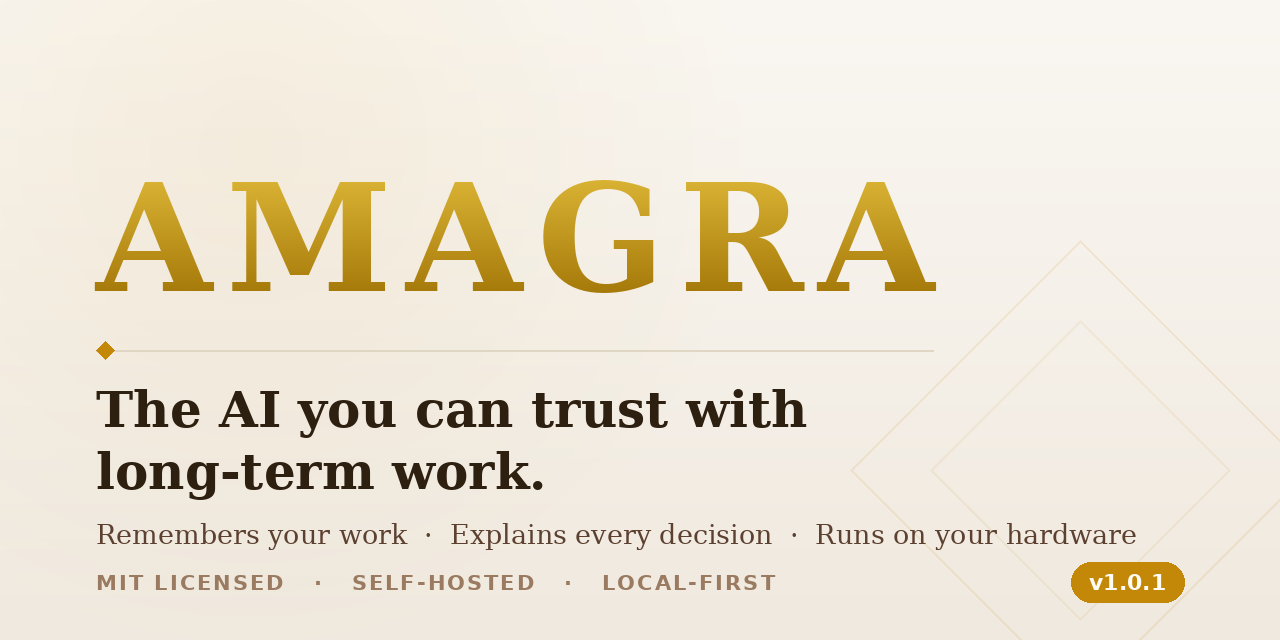
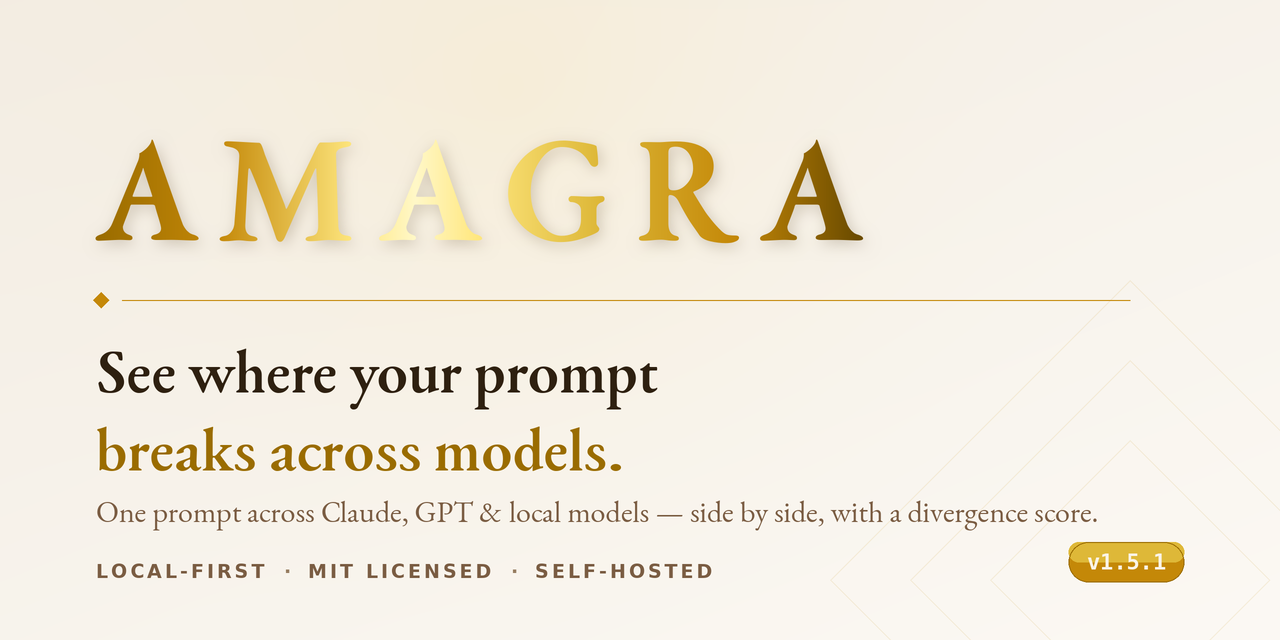
feat(social): refreshed social-preview card + og:image meta
- Regenerate social-preview.png (ui/public + docs) in EB Garamond serif to
  match the dashboard display font; cross-model debugger positioning, v1.5.1 badge
- Add og:image width/height + og:image:alt and twitter:image:alt to
  landing.html and faq.html

(Landing-page rework — demo panel, pain section, competitor table — already
landed in c449ac3 / PR #52.)

Changed region(s): [[0.0625, 0.5312, 0.9375, 0.9688], [0.0625, 0.2188, 0.75, 0.5], [0.7812, 0.4688, 0.8125, 0.5]]

diff --git a/ui/public/faq.html b/ui/public/faq.html
@@ -20,11 +20,15 @@
   <meta property="og:title" content="Amagra FAQ — Local Cross-Model Prompt Debugger" />
   <meta property="og:description" content="How to test one prompt across Claude, GPT, and local models privately. Divergence scoring, supported models, privacy, and comparisons to LangSmith and Promptfoo." />
   <meta property="og:image" content="https://amagra.dev/social-preview.png" />
+  <meta property="og:image:width" content="1280" />
+  <meta property="og:image:height" content="640" />
+  <meta property="og:image:alt" content="Amagra — see where your prompt breaks across models. Local-first, MIT licensed, self-hosted." />
   <meta property="og:site_name" content="Amagra" />
   <meta name="twitter:card" content="summary_large_image" />
   <meta name="twitter:title" content="Amagra FAQ — Local Cross-Model Prompt Debugger" />
   <meta name="twitter:description" content="Direct answers about prompt debugging across models, privately and locally." />
   <meta name="twitter:image" content="https://amagra.dev/social-preview.png" />
+  <meta name="twitter:image:alt" content="Amagra — see where your prompt breaks across models. Local-first, MIT licensed, self-hosted." />
 
   <!-- Structured data: FAQPage so search and AI engines can extract direct answers -->
   <script type="application/ld+json">

diff --git a/ui/public/landing.html b/ui/public/landing.html
@@ -22,6 +22,9 @@
   <meta property="og:title" content="Amagra — The Local Cross-Model Prompt Debugger" />
   <meta property="og:description" content="Run one prompt across Claude, GPT, and your local models at once. Compare every answer side by side with a divergence score, privately on your own hardware. Self-hosted, MIT licensed." />
   <meta property="og:image" content="https://amagra.dev/social-preview.png" />
+  <meta property="og:image:width" content="1280" />
+  <meta property="og:image:height" content="640" />
+  <meta property="og:image:alt" content="Amagra — see where your prompt breaks across models. Local-first, MIT licensed, self-hosted." />
   <meta property="og:site_name" content="Amagra" />
 
   <!-- Twitter -->
@@ -29,6 +32,7 @@
   <meta name="twitter:title" content="Amagra — The Local Cross-Model Prompt Debugger" />
   <meta name="twitter:description" content="Run one prompt across Claude, GPT, and local models. Compare answers side by side with a divergence score — private, self-hosted, on your own hardware." />
   <meta name="twitter:image" content="https://amagra.dev/social-preview.png" />
+  <meta name="twitter:image:alt" content="Amagra — see where your prompt breaks across models. Local-first, MIT licensed, self-hosted." />
 
   <!-- Structured data: tells search engines this is software, not a blog -->
   <script type="application/ld+json">